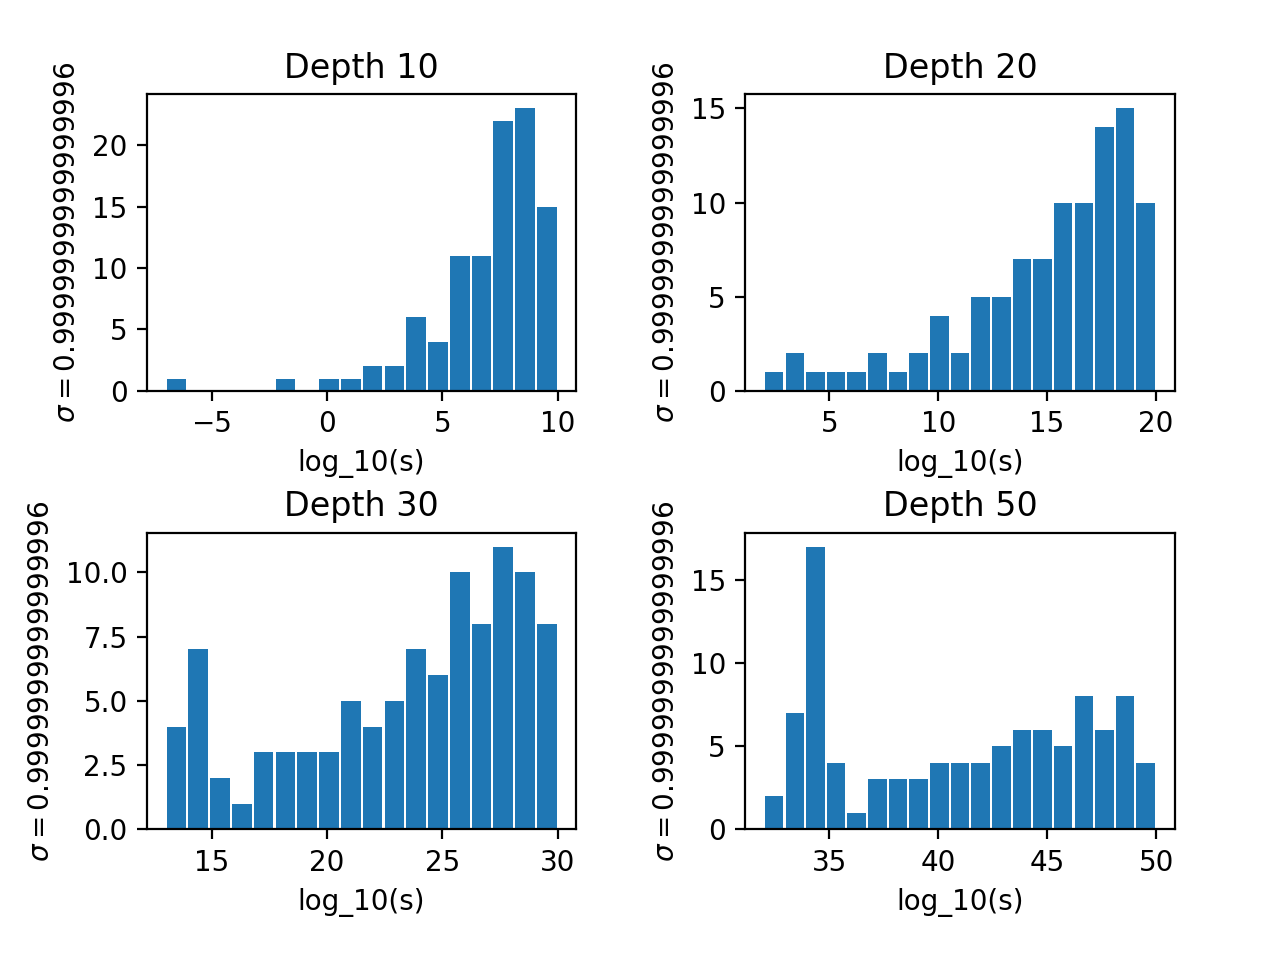
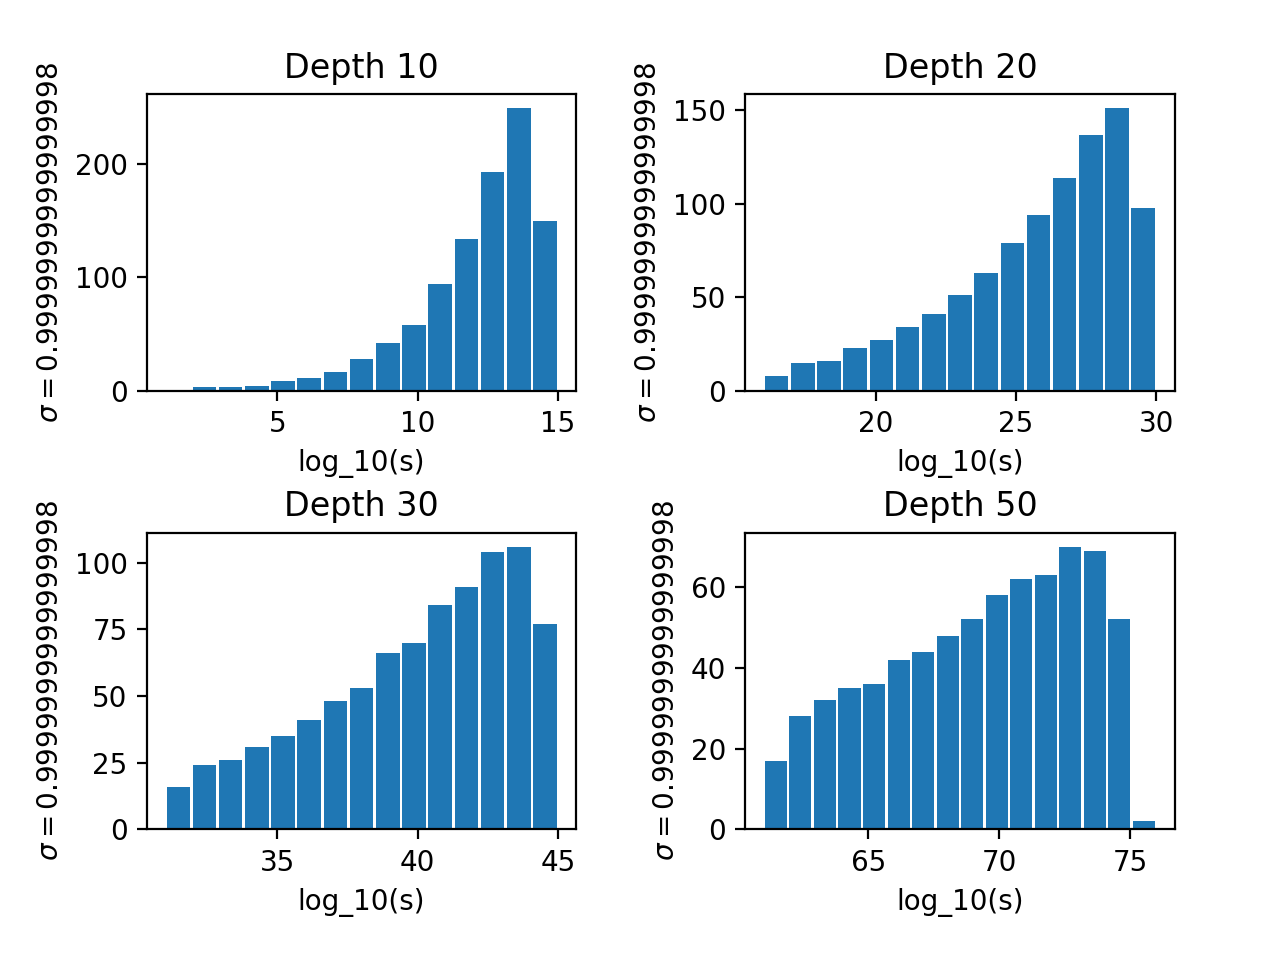
Partly changes of the svd - procedure

diff --git a/Programs/On Curve/Relu_hist_HK.py b/Programs/On Curve/Relu_hist_HK.py
@@ -1,0 +1,121 @@
+import numpy as np
+from numpy import loadtxt
+from math import log10, floor, sqrt
+from scipy.linalg import svdvals
+from scipy.stats import ortho_group
+import matplotlib.pyplot as plt
+from multiprocessing import Pool
+
+
+def relu(x):
+    return 0 if x<0 else x
+
+def NeuralNetwork(mat_size,dep, axx, mat_var, bias_var):
+
+    print(f'Mat_size = {mat_size}')
+
+    # size of matrices
+    # mat_size = 10
+
+    # multiprocessing.cpu_count() = 8
+    with Pool(8) as p:
+        Weight_array = p.map(ortho_group.rvs, [mat_size for _ in range(dep)])
+    #Weight_array = list(map(ortho_group.rvs, [mat_size for _ in range(dep)]))
+
+    # print(Weight_array[0])
+
+    for i in range(dep):
+        Weight_array[i] *= mat_var
+
+    D = [np.identity(mat_size) for _ in range(dep)]
+
+    vec = np.random.randn(mat_size)
+
+    for i in range(dep):
+        bias_vec = np.random.randn(mat_size)*bias_var
+        h = Weight_array[i].dot(vec) + bias_vec
+        for j in range(mat_size):
+            if h[j]<0:
+                D[i][j,j] = 0
+                vec[j]=0
+            else:
+                # phi^\prime = 1 = identity - matrix - entry
+                vec[j] = h[j]
+
+    Jacobi = np.identity(mat_size)
+
+    for i in range(dep):
+        # J = D_1*W_1 * D_2*W_2 * ... 
+        Jacobi = np.matmul(np.matmul(Jacobi, D[i]), Weight_array[i])
+
+    sv = svd(Jacobi)[0]
+
+    # print('Sv', sv)
+
+    sv_no_zeros = np.delete(sv, np.where(sv < 10**(-12)))
+    print(f'Len of sv_cut: {len(sv_no_zeros)}')
+    # print('Sv no zeros: ', sv_no_zeros)
+    # sv_min = sv_no_zeros[0]
+    # sv_len = np.shape(sv_no_zeros)[0]
+
+    # for i in range(sv_len):
+    #    if sv_no_zeros[i] < sv_min:
+    #        sv_min = sv_no_zeros[i]
+
+    # print('Sv min: ', sv_min)
+    sv_min = min(sv_no_zeros)
+    sv_max = max(sv_no_zeros)
+    print(f'SV_min: {sv_min}, SV_max: {sv_max}')
+
+    # btm_bnd = floor(log10(sv_min))
+    # top_bnd = floor(log10(sv_max))
+    # print('btm: ', btm_bnd)
+    # print('top: ', top_bnd)
+
+    # range(..., ...) can be changed
+    # count = [0 for i in range(abs(btm_bnd - top_bnd)+1)]
+
+    # for s in sv:
+    #    if s>0:
+    #        print('value: ', floor(log10(s)))
+    #        count[floor(log10(s)) - btm_bnd] += 1
+
+    #for i in range(21):
+        #count[i] /= mat_size
+
+    # sv_hist = [floor(log10(sv_no_zeros[i])) for i in range(sv_len)]
+
+    axx.hist (sv_no_zeros, floor(sqrt(len(sv_no_zeros))), (sv_min,sv_max), histtype='bar', rwidth = 1.0)
+    # axx.hist(sv_hist, abs(btm_bnd - top_bnd) + 1, (btm_bnd, top_bnd), histtype = 'bar', rwidth = 0.9)
+    # axx.plot([i for i in range(btm_bnd, top_bnd + 1)], count, '--')
+    axx.set_ylabel('log_10(s)')
+    # axx.set_xlabel(f'Max: {floor(log10(sv_max))}, Min: {floor(log10(sv_min))}')
+    axx.set_xlabel(f'Pos: {np.shape(sv_no_zeros)[0]}, Max: {round(sv_max,3)}, Min: {round(sv_min,3)}')
+    axx.set_title(f'N = {mat_size}')
+
+if __name__ == '__main__':
+
+    fig, axs = plt.subplots(3,3)
+
+    fig.suptitle('On Curve', fontsize = 14)
+
+    fig.tight_layout(pad = 3)
+
+    data = loadtxt('relu_critical.csv', delimiter=',')
+
+    data_len = np.shape(data)[0]
+
+    sw_sb = np.random.randint(0,data_len-1)
+    # NeuralNetwork(1,axs[0,0], data[sw_sb][0], data[sw_sb][1])
+    # NeuralNetwork(2,axs[0,1], data[sw_sb][0], data[sw_sb][1])
+    # NeuralNetwork(3,axs[0,2], data[sw_sb][0], data[sw_sb][1])
+    # NeuralNetwork(4,axs[1,0], data[sw_sb][0], data[sw_sb][1])
+    # NeuralNetwork(5,axs[1,1], data[sw_sb][0], data[sw_sb][1])
+    # NeuralNetwork(6,axs[1,2], data[sw_sb][0], data[sw_sb][1])
+    # NeuralNetwork(7,axs[2,0], data[sw_sb][0], data[sw_sb][1])
+    # NeuralNetwork(8,axs[2,1], data[sw_sb][0], data[sw_sb][1])
+    # NeuralNetwork(9,axs[2,2], data[sw_sb][0], data[sw_sb][1])
+    for i in range(9):
+        NeuralNetwork(100*(i+1),10,axs[floor(i/3),i%3],data[sw_sb][0],data[sw_sb][1])
+
+    plt.show()

diff --git a/Programs/On Curve/Erf_hist.py b/Programs/On Curve/Erf_hist.py
@@ -2,6 +2,7 @@ from math import log10, floor, pi
 import numpy as np
 from numpy import loadtxt
 from scipy.linalg import svdvals
+from tensorflow.linalg import svd
 from scipy.stats import ortho_group
 from multiprocessing import Pool
 import matplotlib.pyplot as plt
@@ -12,7 +13,7 @@ from scipy.special import erf
 def NeuralNetwork(dep, axx, mat_var, bias_var):
 
     # size of matrices
-    mat_size = 100
+    mat_size = 1000
 
     # multiprocessing.cpu_count() = 8
     with Pool(8) as p:
@@ -37,7 +38,7 @@ def NeuralNetwork(dep, axx, mat_var, bias_var):
     for i in range(dep):
         Jacobi = np.matmul(np.matmul(Jacobi, D[i]), Weight_array[i])
 
-    sv = svdvals(Jacobi)
+    sv = svd(Jacobi)[0]
 
     print('check')
     print('---------------------------------------')

diff --git a/Programs/On Curve/HardTanh_hist.py b/Programs/On Curve/HardTanh_hist.py
@@ -2,6 +2,7 @@ import numpy as np
 from numpy import loadtxt
 from math import log10, floor
 from scipy.linalg import svdvals
+from tensorflow.linalg import svd
 from scipy.stats import ortho_group
 from multiprocessing import Pool
 import matplotlib.pyplot as plt
@@ -11,7 +12,7 @@ import matplotlib.pyplot as plt
 def NeuralNetwork(dep, axx, mat_var, bias_var):
 
     # size of matrices
-    mat_size = 100
+    mat_size = 1000
 
     # multiprocessing.cpu_count() = 8
     with Pool(8) as p:
@@ -42,7 +43,7 @@ def NeuralNetwork(dep, axx, mat_var, bias_var):
     for i in range(dep):
         Jacobi = np.matmul(np.matmul(Jacobi, D[i]), Weight_array[i])
 
-    sv = svdvals(Jacobi)
+    sv = svd(Jacobi)[0]
     print('check')
 
     print('----------------------------')

diff --git a/Programs/On Curve/Sigmoid_hist.py b/Programs/On Curve/Sigmoid_hist.py
@@ -1,6 +1,7 @@
 import numpy as np
 from numpy import loadtxt
 from math import log10, floor
+from tensorflow.linalg import svd
 from scipy.linalg import svdvals
 from scipy.stats import ortho_group
 import matplotlib.pyplot as plt
@@ -16,7 +17,7 @@ def der_sig(x):
 def NeuralNetwork(dep, axx, mat_var, bias_var):
 
     # size of matrices
-    mat_size = 100
+    mat_size = 1000
 
     # multiprocessing.cpu_count() = 8
     with Pool(8) as p:
@@ -43,7 +44,7 @@ def NeuralNetwork(dep, axx, mat_var, bias_var):
         # J = D_1*W_1 * D_2*W_2 * ... 
         Jacobi = np.matmul(np.matmul(Jacobi, D[i]), Weight_array[i])
 
-    sv = svdvals(Jacobi)
+    sv = svd(Jacobi)[0]
     print('check')
 
     print('---------------------------------------------------')

diff --git a/Programs/On Curve/Linear_hist.py b/Programs/On Curve/Linear_hist.py
@@ -2,13 +2,14 @@ import numpy as np
 from numpy import loadtxt
 from math import log10, floor
 from scipy.linalg import svdvals
+from tensorflow.linalg import svd
 import matplotlib.pyplot as plt
 from multiprocessing import Pool
 
 
 def NeuralNetwork(dep, axx, mat_var, bias_var):
     
-    mat_size = 100
+    mat_size = 1000
 
     Weight_array = [np.random.randn(mat_size,mat_size) for _ in range(dep)]
 
@@ -27,7 +28,7 @@ def NeuralNetwork(dep, axx, mat_var, bias_var):
             vec[j] = h[j]
         Jacobi = np.matmul(Jacobi, Weight_array[i])
 
-    sv = svdvals(Jacobi)
+    sv = svd(Jacobi)[0]
 
     print(sv)
     sv_no_zeros = np.delete(sv, np.where(sv < 10**(-300)))

diff --git a/Programs/Mean SV/Linear_hist.py b/Programs/Mean SV/Linear_hist.py
@@ -2,6 +2,7 @@ import numpy as np
 from numpy import loadtxt
 from math import log10, floor
 from scipy.linalg import diagsvd
+from tensorflow.linalg import svd
 from scipy.linalg import svdvals
 import matplotlib.pyplot as plt
 from multiprocessing import Pool
@@ -28,7 +29,7 @@ def NeuralNetwork(dep, mat_var, bias_var):
         for j in range(mat_size):
             vec[j] = h[j]
         Jacobi = np.matmul(Jacobi, Weight_array[i])
-        sv = svdvals(Jacobi)
+        sv = svd(Jacobi)[0]
         sv_lst.append(floor(log10(np.mean(sv))))
     
     return sv_lst

diff --git a/Programs/Mean SV/Relu_hist.py b/Programs/Mean SV/Relu_hist.py
@@ -2,6 +2,7 @@ import numpy as np
 from numpy import loadtxt
 from math import log10, floor
 from scipy.linalg import svdvals
+from tensorflow.linalg import svd
 from scipy.stats import ortho_group
 import matplotlib.pyplot as plt
 from multiprocessing import Pool
@@ -43,7 +44,7 @@ def NeuralNetwork(dep, mat_var, bias_var):
                 vec[j] = h[j]
         Jacobi = np.matmul(np.matmul(Jacobi, D[i]), Weight_array[i])
 
-        sv = svdvals(Jacobi)
+        sv = svd(Jacobi)[0]
         sv_lst.append(floor(log10(np.mean(sv))))
 
     return sv_lst

diff --git a/Programs/Mean SV/Erf_hist.py b/Programs/Mean SV/Erf_hist.py
@@ -2,6 +2,7 @@ from math import log10, floor, pi
 import numpy as np
 from numpy import loadtxt
 from scipy.linalg import svdvals
+from tensorflow.linalg import svd
 from scipy.stats import ortho_group
 from multiprocessing import Pool
 import matplotlib.pyplot as plt
@@ -38,7 +39,7 @@ def NeuralNetwork(dep, mat_var, bias_var):
 
         Jacobi = np.matmul(np.matmul(Jacobi, D[i]), Weight_array[i])
 
-        sv = svdvals(Jacobi)
+        sv = svd(Jacobi)[0]
         sv_lst.append(floor(log10(np.mean(sv))))
 
     return sv_lst

diff --git a/Programs/Mean SV/HardTanh_hist.py b/Programs/Mean SV/HardTanh_hist.py
@@ -2,6 +2,7 @@ import numpy as np
 from numpy import loadtxt
 from math import log10, floor
 from scipy.linalg import svdvals
+from tensorflow.linalg import svd
 from scipy.stats import ortho_group
 from multiprocessing import Pool
 import matplotlib.pyplot as plt
@@ -43,7 +44,7 @@ def NeuralNetwork(dep, mat_var, bias_var):
 
         Jacobi = np.matmul(np.matmul(Jacobi, D[i]), Weight_array[i])
 
-        sv = svdvals(Jacobi)
+        sv = svd(Jacobi)[0]
         sv_lst.append(floor(log10(np.mean(sv))))
 
     return sv_lst

diff --git a/Programs/Mean SV/Sigmoid_hist.py b/Programs/Mean SV/Sigmoid_hist.py
@@ -2,6 +2,7 @@ import numpy as np
 from numpy import loadtxt
 from math import log10, floor
 from scipy.linalg import svdvals
+from tensorflow.linalg import svd
 from scipy.stats import ortho_group
 import matplotlib.pyplot as plt
 from multiprocessing import Pool
@@ -43,7 +44,7 @@ def NeuralNetwork(dep, mat_var, bias_var):
 
         Jacobi = np.matmul(np.matmul(Jacobi, D[i]), Weight_array[i])
 
-        sv = svdvals(Jacobi)
+        sv = svd(Jacobi)[0]
         sv_lst.append(floor(log10(np.mean(sv))))
 
     return sv_lst

diff --git a/Programs/On Curve/Shifted_Relu_hist.py b/Programs/On Curve/Shifted_Relu_hist.py
@@ -8,8 +8,8 @@ import matplotlib.pyplot as plt
 from multiprocessing import Pool
 
 
-def relu(x):
-    return 0 if x<0 else x
+def srelu(x):
+    return -1 if x<-1 else x
 
 def NeuralNetwork(dep, axx, mat_var, bias_var):
 
@@ -94,7 +94,7 @@ if __name__ == '__main__':
 
     fig.tight_layout(pad = 3)
 
-    data = loadtxt('relu_critical.csv', delimiter=',')
+    data = loadtxt('srelu_critical.csv', delimiter=',')
 
     data_len = np.shape(data)[0]
 
